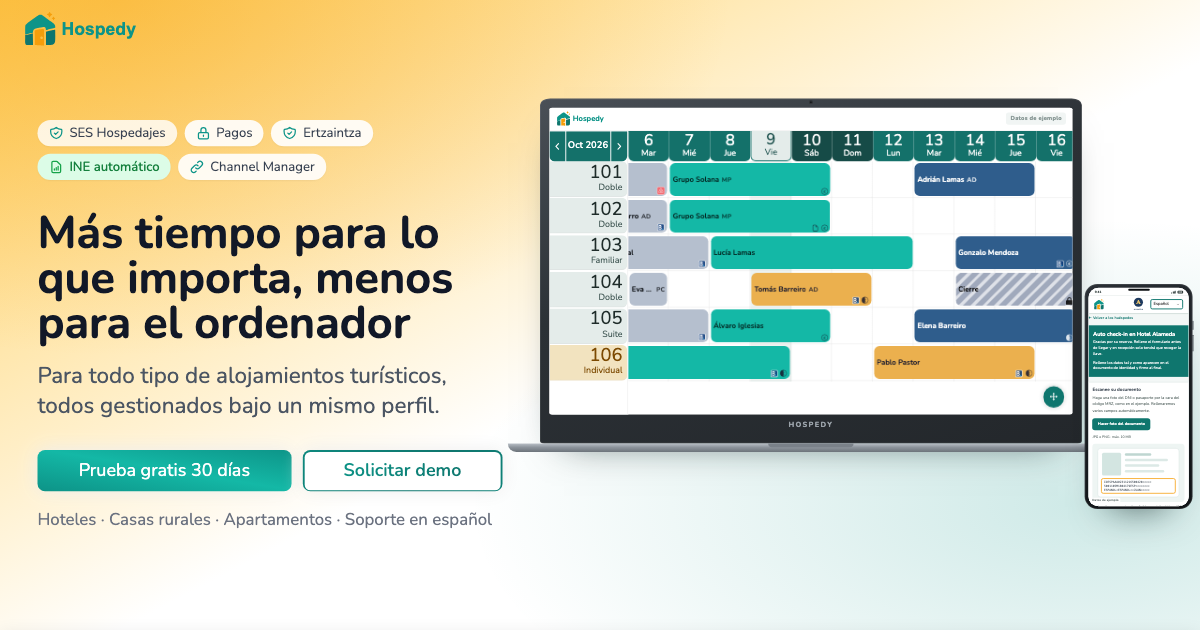
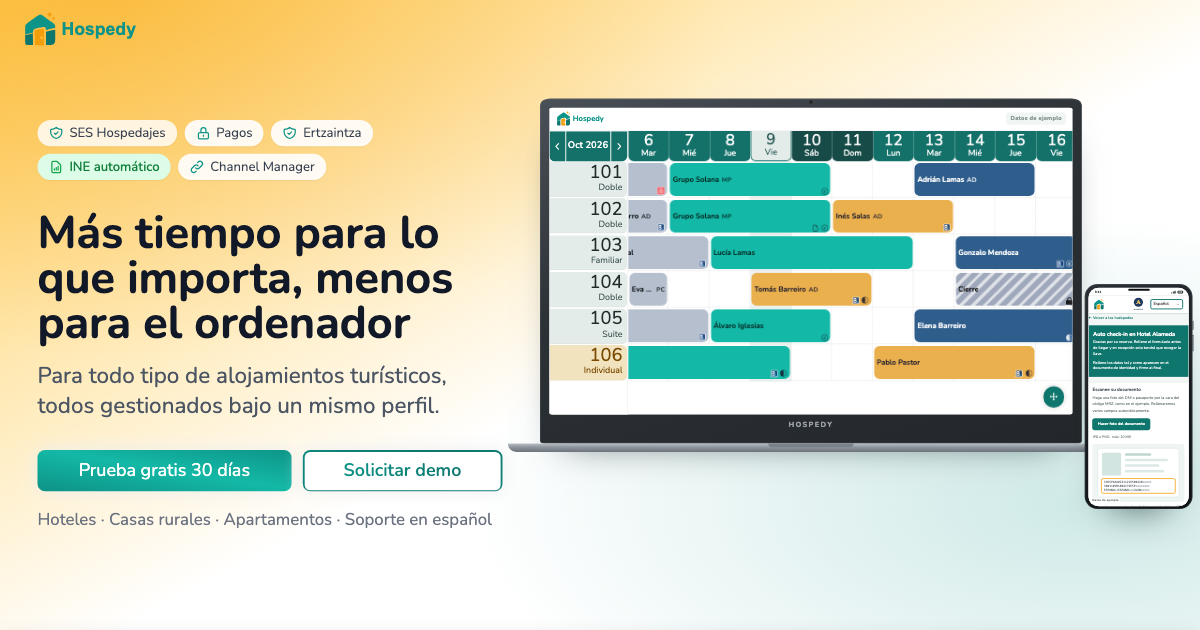
Landing: una llegada con el auto check-in enviado en la 102 del hotel de ejemplo, e imagen para redes
La 102 (segunda fila) recibe a Inés Salas justo cuando la deja el grupo Solana,
en amarillo de auto check-in enviado: se ve nada más entrar, también en el móvil,
donde solo caben cuatro filas. Lleva todos sus datos puestos, así que no gasta
números del generador y el resto de reservas de ejemplo no cambia. La imagen para
redes sale de la cabecera de la home y se regenera con ella.

Changed region(s): [[0.6783, 0.3016, 0.8017, 0.3921]]

diff --git a/utils/planningEjemplo.js b/utils/planningEjemplo.js
@@ -167,12 +167,15 @@ function hotel() {
     reservas = reservas.concat(llenar(f, rnd, noches, 0.8, titular));
   });
 
-  /* dos grupos (una barra por habitacion, como el panel), la reserva que mueve la demo (con un
-     nombre que el generador no usa, para que no se repita) con un hueco libre en la 101 para
-     llevarla, y tres cierres */
+  /* dos grupos (una barra por habitacion, como el panel), una llegada con el auto check-in
+     enviado arriba del todo, que es lo primero que se ve (la 102, al dejarla el grupo), la
+     reserva que mueve la demo con un hueco libre en la 101 para llevarla (las dos con nombres
+     que el generador no usa, para que no se repitan) y tres cierres. La de la 102 lleva todos
+     sus datos: asi no gasta numeros del generador y el resto no cambia */
   const fijas = [
     ...[0, 1].map((f) => ({ f, c: HOY - 2, s: 4, q: "Grupo Solana", r: "MP", g: "sol", e: "in", ota: "" })),
     ...[14, 15, 16].map((f) => ({ f, c: HOY + 1, s: 3, q: "Grupo Pirineo", r: "MP", g: "pir", e: "pre", ota: "" })),
+    { f: 1, c: HOY + 2, s: 3, q: "Inés Salas", r: "AD", e: "pre", ota: "bk", cobro: "", pax: 2 },
     { f: 2, c: HOY + 10, s: 4, q: "Beatriz Robles", r: "AD", e: "future", ota: "", cobro: "pend", demo: true },
     { f: 3, c: HOY + 5, s: 3, cierre: true, motivo: "Pintura" },
     { f: 1, c: HOY - 10, s: 2, cierre: true, motivo: "Avería de fontanería" },
